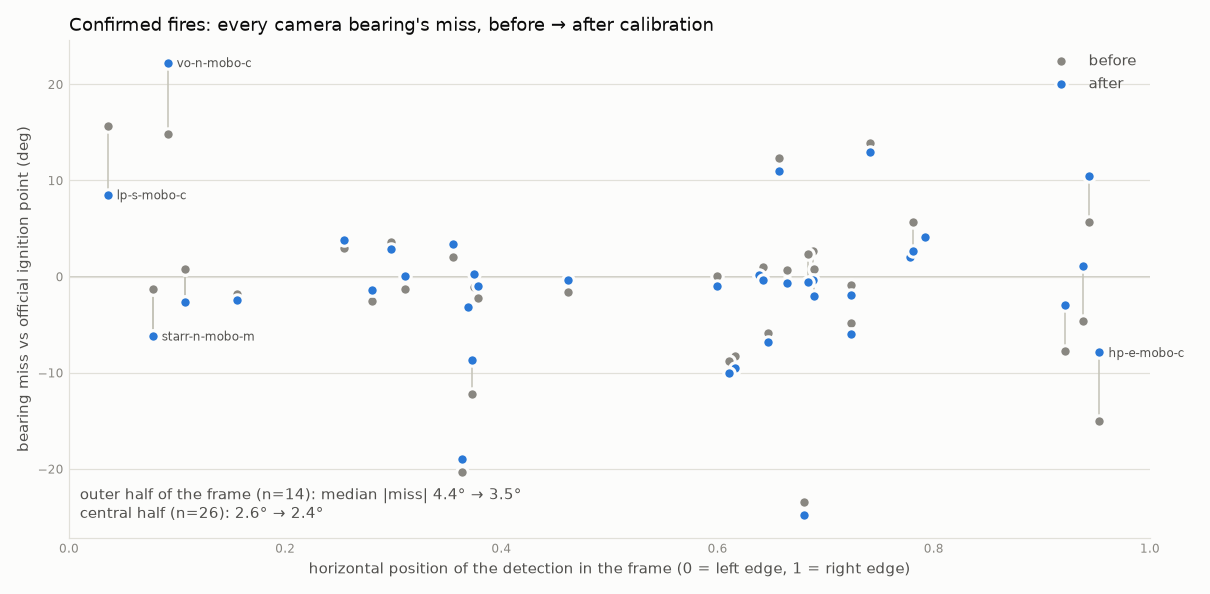
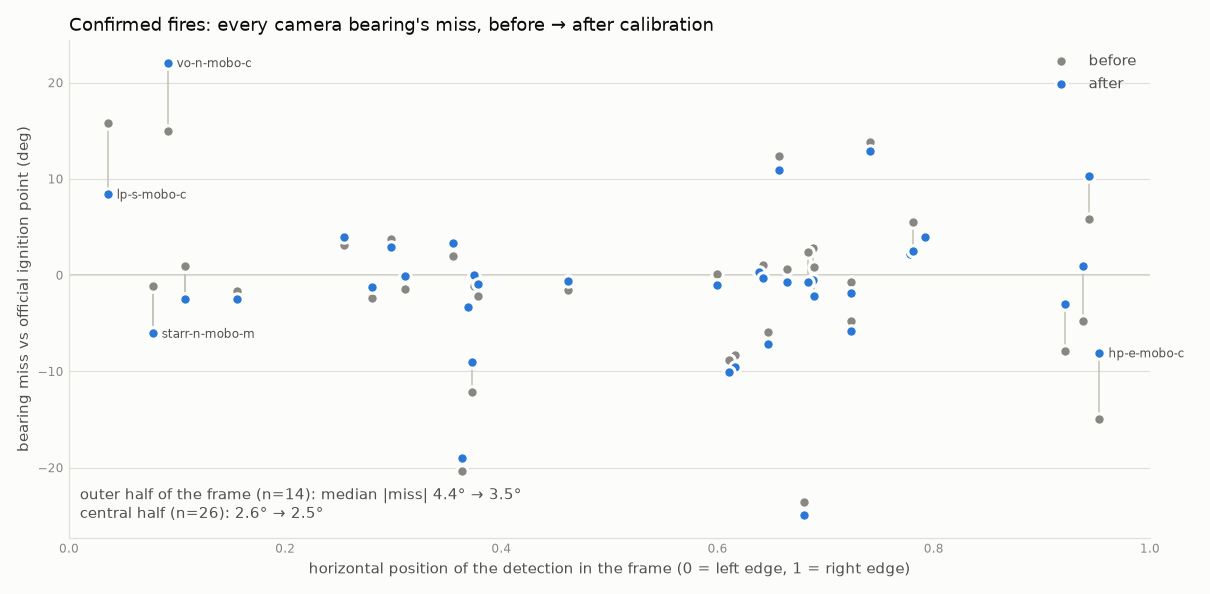
Re-run geolocation on the precessed ledger and ellipsoidal bearings
Baseline, fisheye and fisheye+ledger geolocate runs from c1019da, then the
calfire audit and the figures that read them. Confirmed-fire upper medians:
1.90 / 1.70 / 2.00 km (ledger was 1.70); within-2 km counts unchanged at
7 / 8 / 6. Every change is the solver's argmax stepping one 0.4 km grid cell;
the ledger median moves on Clubfire, which has no ledger correction.
PORTOLA: WFIGS 24.03 km, CAL FIRE 1.36 km from the estimate, still inside
the 95% region.

diff --git a/NOTES.md b/NOTES.md
@@ -2335,8 +2335,38 @@ The precession correction rests on the Skyfield comparison, not on landmarks. A 
 that could decide it needs surveyed mast positions, or daytime structures whose position is
 known to ~10 m.
 
-**Not re-run yet:** the geolocation numbers in the README (km errors). The new ledger and the
-bearing fix will both move them slightly, and re-running writes `runs.jsonl`.
+The geolocation re-run under all this is in the next section.
+
+## Geolocation re-run on the precessed ledger and ellipsoidal bearings (2026-09-25)
+
+Three `geolocate.py` runs from c1019da (baseline, `FIGLIB_LENS=fisheye`, plus
+`FIGLIB_POSE_LEDGER=1`), then `calfire` (its audit reads the baseline) and the figures that
+depend on them. Center bearing, upper medians the way geolocate prints them, confirmed fires:
+
+| | baseline | fisheye lens | fisheye + ledger |
+|---|---|---|---|
+| before (2734e77) | 1.90 km, 7 ≤ 2 km | 1.70 km, 8 | 1.70 km, 6 |
+| now | 1.90 km, 7 | 1.70 km, 8 | **2.00 km**, 6 |
+
+  * **The reported bearings did not move at all** in the baseline and fisheye runs. The
+    ellipsoidal `bearing_deg` changes only the solver's grid, and every change there is the
+    argmax stepping one 0.4 km cell: SteeleFire 0.75 -> 0.93, PORTOLA 23.63 -> 24.03,
+    20161113_FIRE.1 9.12 -> 9.51 (baseline); Clubfire 1.44 -> 2.00, CreelmanFire
+    1.89 -> 1.39 (fisheye).
+  * **The ledger's median moves 1.70 -> 2.00 km for Clubfire alone.** That fire has no ledger
+    correction, so it is the same one-cell step as in the fisheye run. It is the upper-median
+    fire of the ten confirmed and sits on the 2 km line. The counts are unchanged.
+  * The precessed poses (bearings up to 0.32 deg different) moved two probable fires:
+    Border11Fire 0.07 -> 0.42 km, SpringsFire 3.14 -> 2.92. ScissorsFire stays at 0.02 and
+    JunctionFire at 2.68; vo-n's correction is now +11.31 deg rather than +11.6.
+  * **PORTOLA:** the CAL FIRE point is now 1.36 km from the estimate (was 1.02). It is still
+    inside the 95% region, at 2.66 of the 3.0 log-likelihood drop.
+
+The headline numbers are within the solver's own grid step, so the changes read as
+resolution rather than calibration. A finer grid would settle whether 1.70 or 2.00 is the
+better figure for the ledger variant. **Not re-run:** the terrain-range section
+(`terrain_range validate`, Rainbow, Toro Peak), which also reads the ledger, and the `recent`
+corpus, whose ledger in `out/recent/` was solved before precession.
 
 ## Deliberately deferred
 

diff --git a/README.md b/README.md
@@ -71,9 +71,9 @@ wrong record, or a weak crossing angle — and a second official source tells th
 ![PORTOLA: three bearings agree tightly 24 km from the assigned incident](docs/figures/triangulate_portola.jpg)
 
 *`20171010_FIRE` → PORTOLA: three bearings from two sites close on an 8 km² region, with the
-WFIGS coordinate 23.63 km away and no ray passing near it. CAL FIRE records the same fire at
+WFIGS coordinate 24.03 km away and no ray passing near it. CAL FIRE records the same fire at
 33.50488, −117.02132 — Riverside County, De Portola Road east of Pauba Road, 23 acres —
-**1.02 km from the estimate**, inside the 95% region. The WFIGS point falls outside it
+**1.36 km from the estimate**, inside the 95% region. The WFIGS point falls outside it
 entirely, at zero relative posterior density; it reads 33°18′00″ 116°59′59″, rounded to the
 arcminute, and is filed in the wrong county.*
 
@@ -124,14 +124,14 @@ Priced in kilometers, with the same detections and solver, on the name-confirmed
 |---|---|---|
 | published azimuth, rectilinear lens | 1.90 km | 7 of 10 |
 | star-measured fisheye lens | **1.70 km** | **8 of 10** |
-| + per-camera star azimuth from the ledger | 1.70 km | 6 of 10 |
+| + per-camera star azimuth from the ledger | 2.00 km | 6 of 10 |
 
 ![Bearing rays and estimates before and after calibration](docs/figures/calibration_maps.png)
 
 The lens is the clear gain: detections in the outer half of the frame go from a median bearing
 miss of 4.4° to 3.5° ([every bearing](docs/figures/calibration_bearings.png)). The azimuth
 ledger lands where detections are right: ScissorsFire goes from 0.58 km to **0.02 km**. It
-also makes JunctionFire worse, and that is informative. Correcting vo-n-mobo-c by 11.6° puts
+also makes JunctionFire worse, and that is informative. Correcting vo-n-mobo-c by 11.3° puts
 the ignition point outside that camera's field of view, and its low-confidence detection turns
 out to be a cumulus cloud at the frame edge. With the cameras calibrated, **detection
 selection** (edge-clipped boxes, best-confidence picking the wrong object) is what limits
